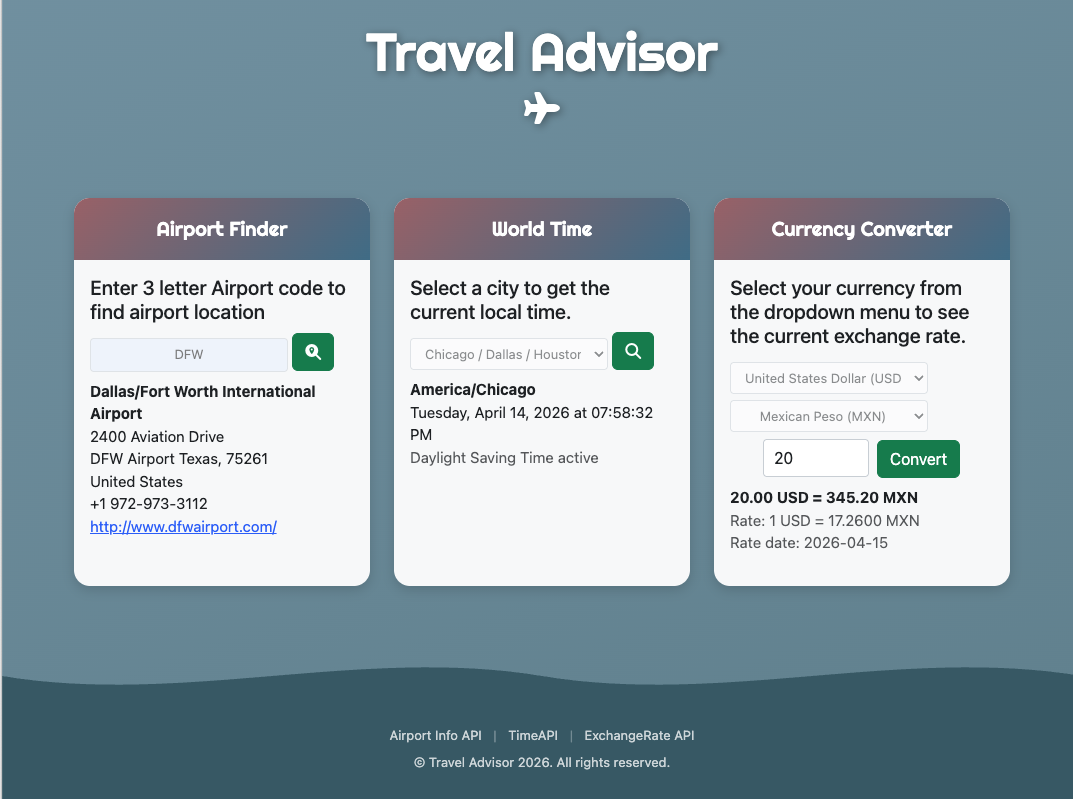
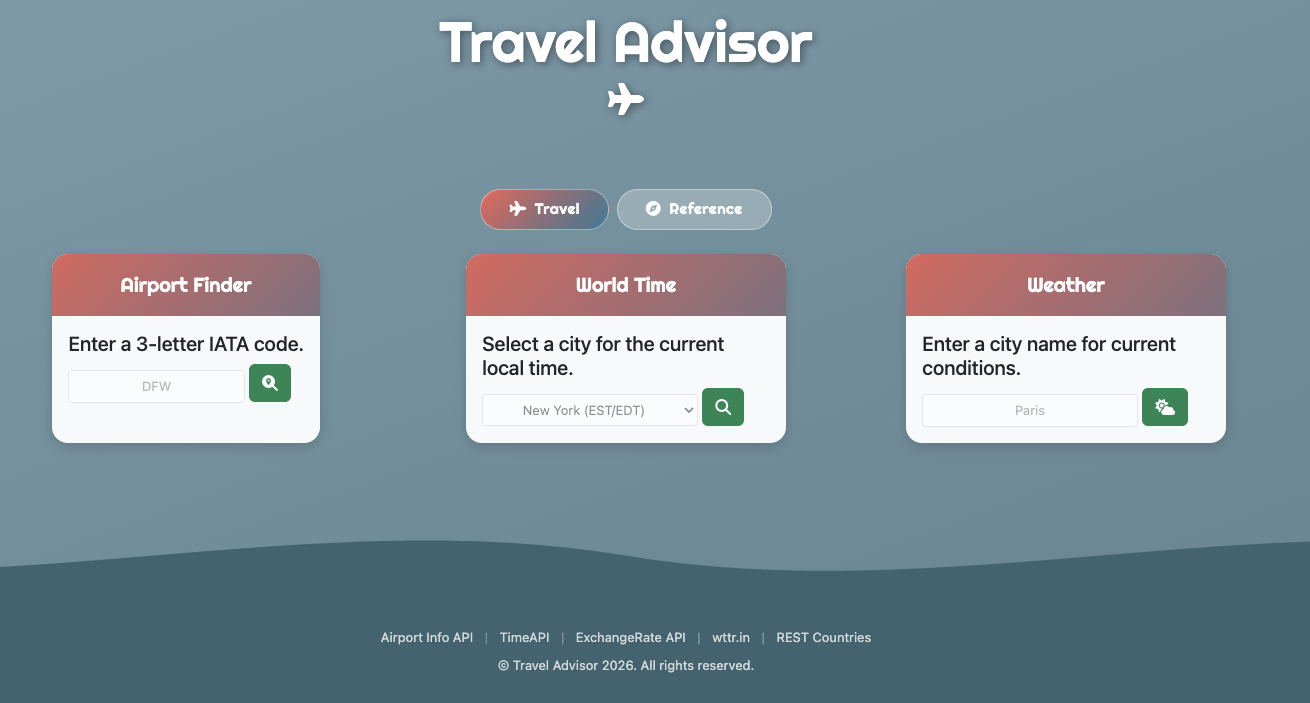
docs: update screenshots to show Travel and Reference tabs
Replaces single screenshot with two labeled captures showing
the tabbed UI — Travel tab (Airport Finder, World Time, Weather)
and Reference tab (Currency Converter, Unit Converter, Country Info).

diff --git a/README.md b/README.md
@@ -20,7 +20,13 @@ The following technologies are used in Travel Advisor:
 
 Here are some screenshots of Travel Advisor in action:
 
+**Travel tab**
+
 <img src="public/airPlane/travelAdvisor.png" width="70%">
+
+**Reference tab**
+
+<img src="public/airPlane/travelAdvisor2.png" width="70%">
 
 ## Getting Started
 
